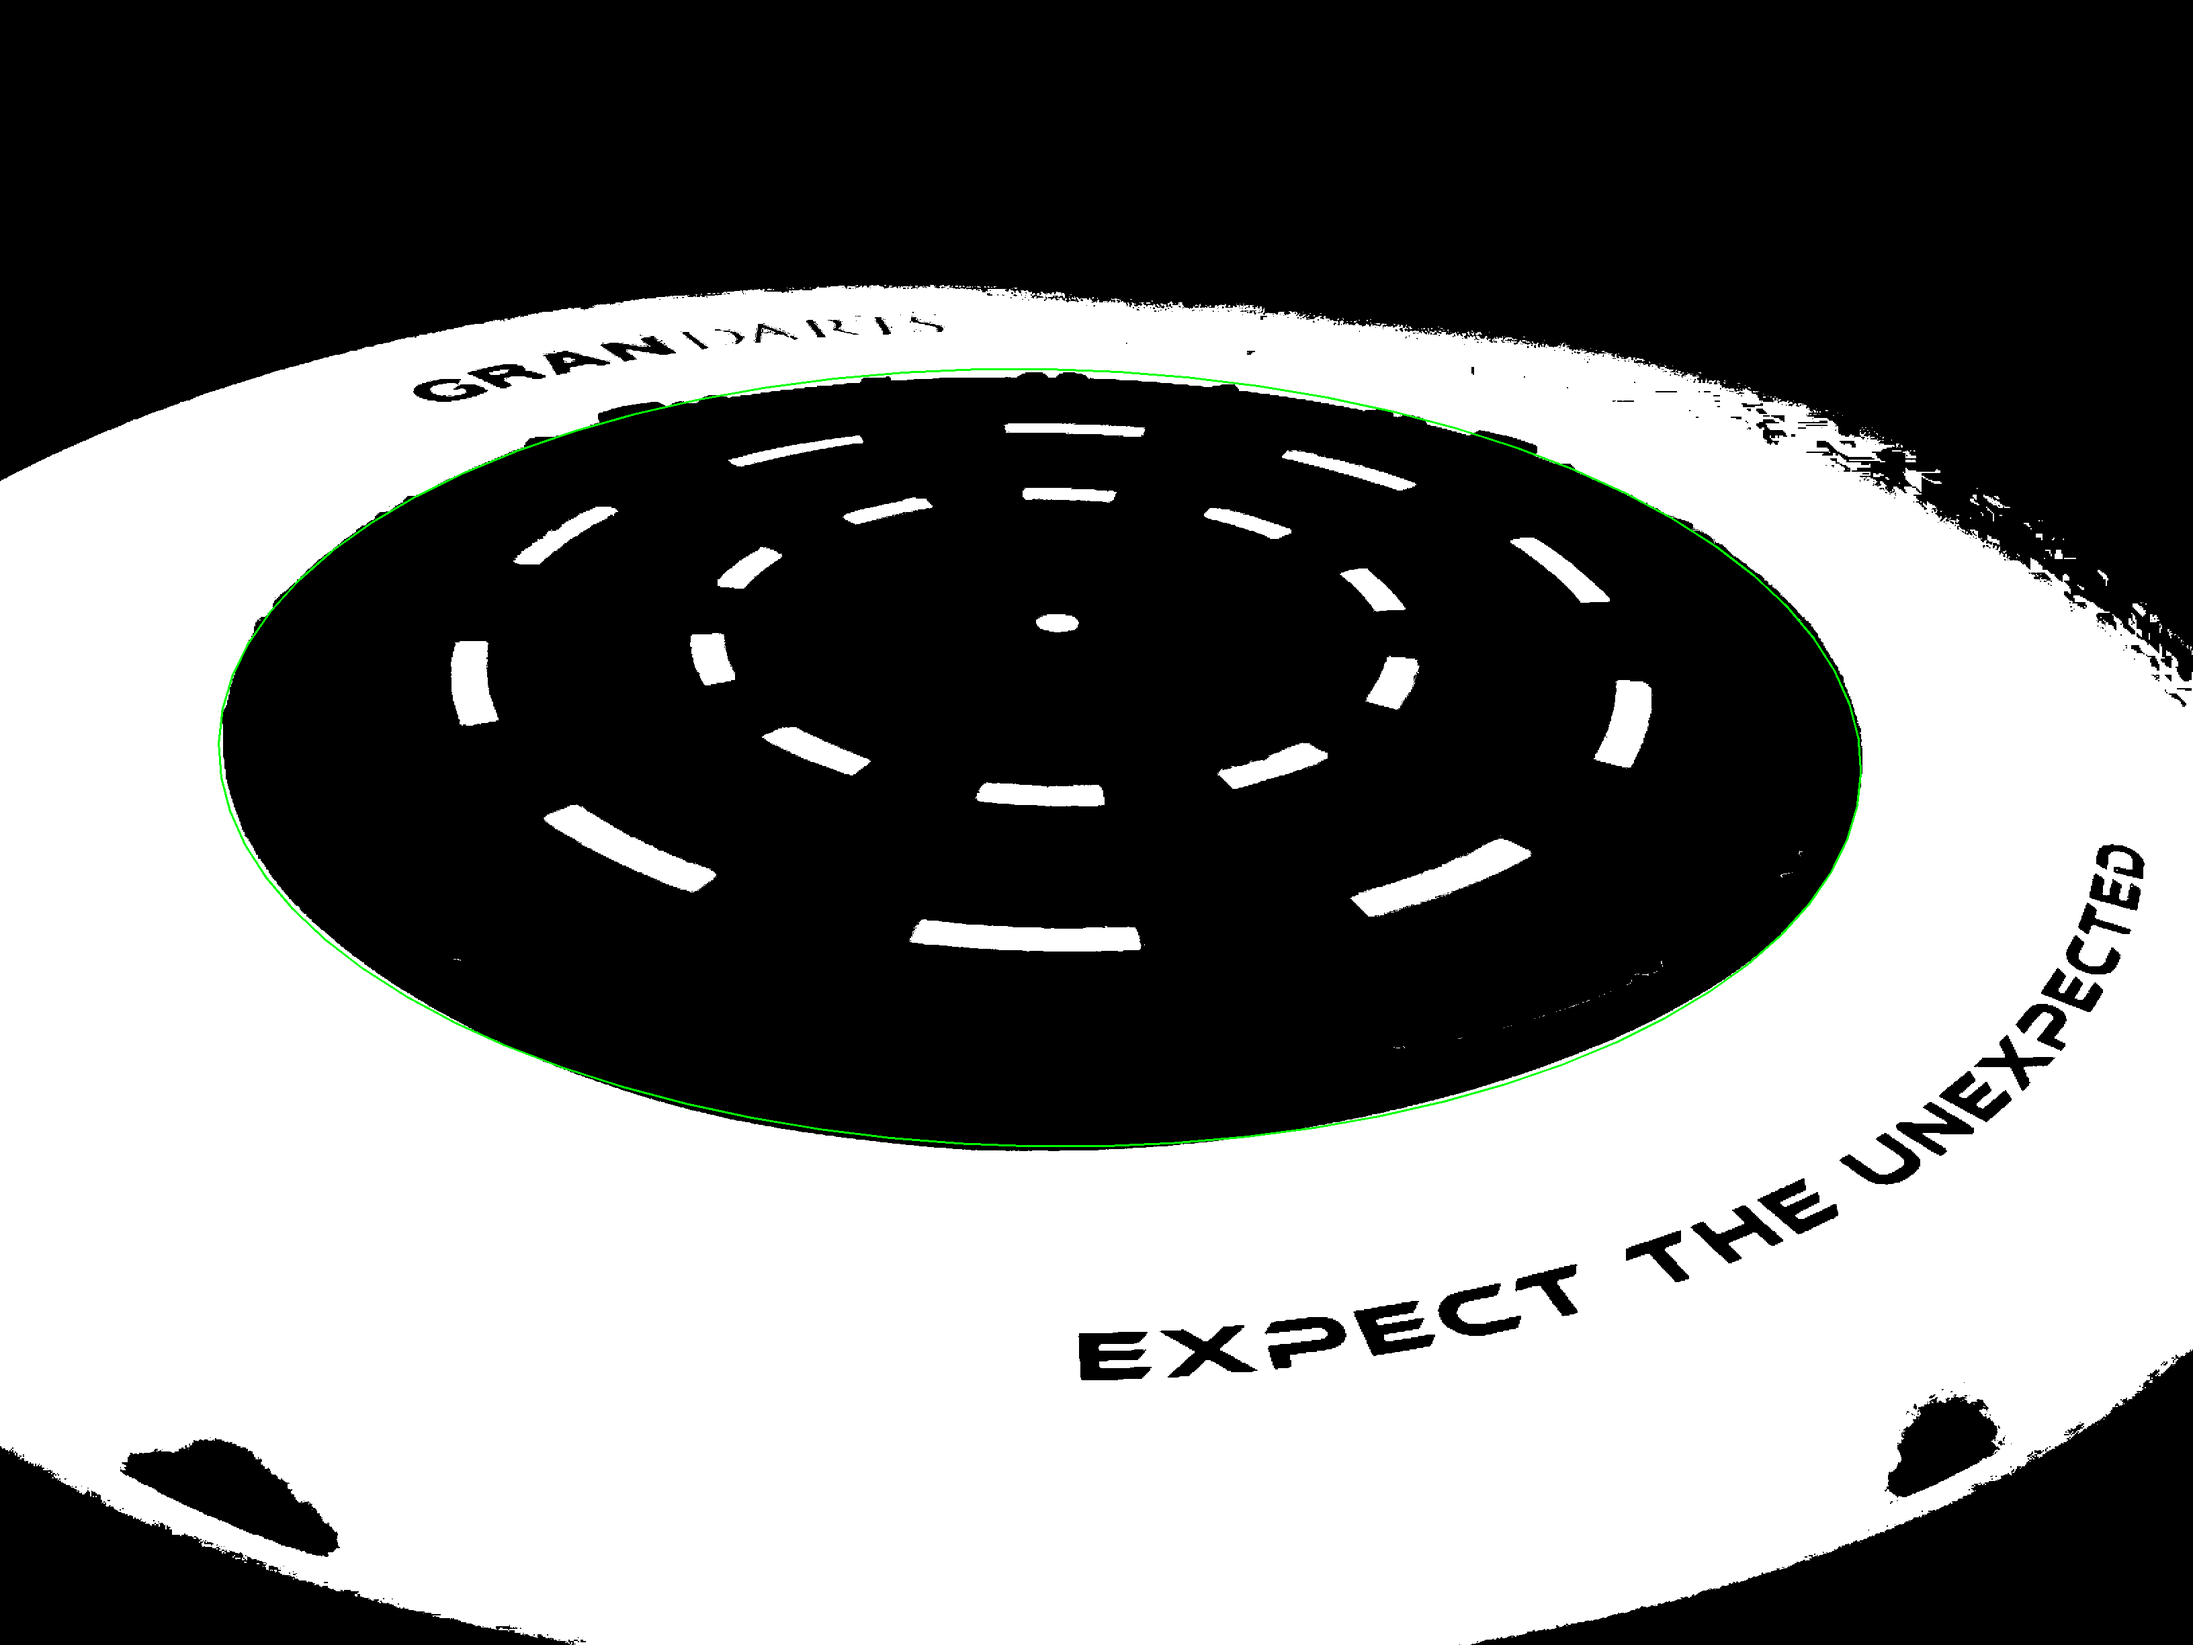
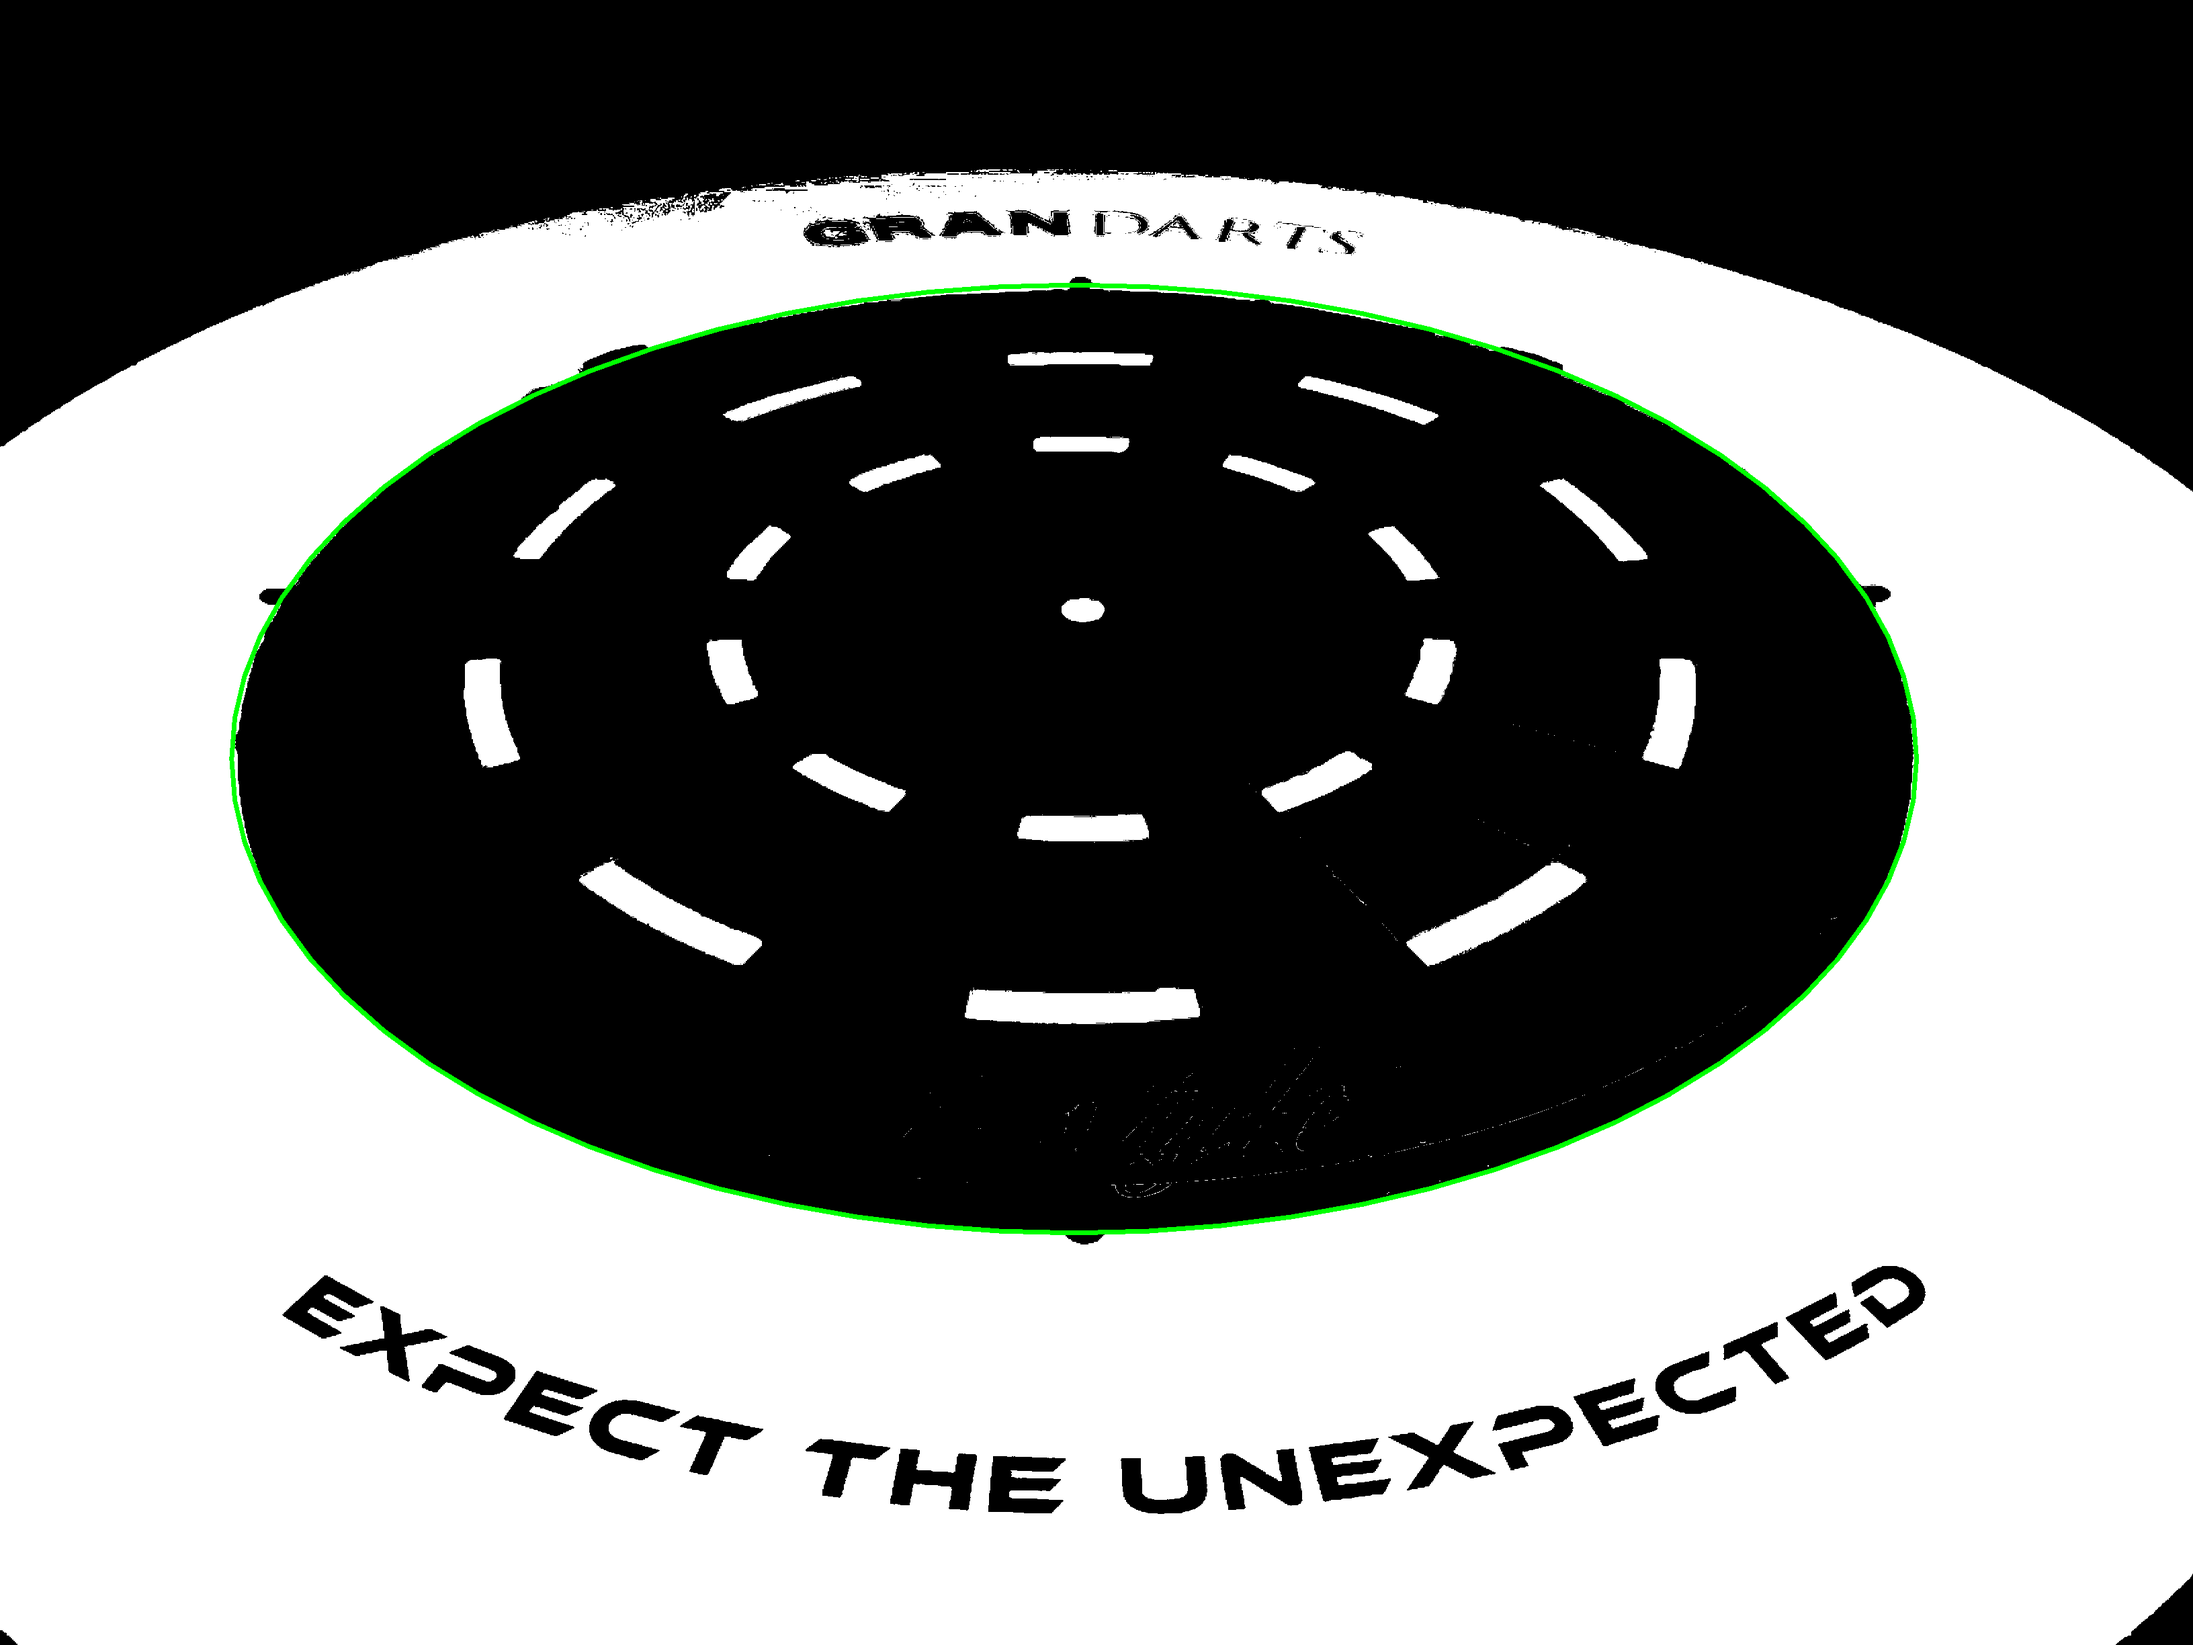
[fix]楕円検出の画像を更新

diff --git a/src/level6_円と楕円の抽出/run.py b/src/level6_円と楕円の抽出/run.py
@@ -5,14 +5,15 @@ from matplotlib import pyplot as plt
 
 # 画像の読み込み
 # image_path = "./img/shomen.png"  # 読み込むPNG画像のパス
-image_path = "./img/toonaname.png"  # 読み込むPNG画像のパス
+# image_path = "./img/toonaname.png"  # 読み込むPNG画像のパス
+image_path = "./img/marktuki.png"  # 読み込むPNG画像のパス
 image = cv2.imread(image_path)
 
 # 画像をBGRからHSVに変換
 image_hsv = cv2.cvtColor(image, cv2.COLOR_BGR2HSV)
 
 # 赤の範囲（HSV空間）
-lower_red1 = np.array([0, 80, 122])
+lower_red1 = np.array([0, 80, 90])
 upper_red1 = np.array([25, 255, 255])
 lower_red2 = np.array([160, 70, 100])
 upper_red2 = np.array([180, 255, 255])
@@ -37,7 +38,7 @@ for contour in contours:
         # 楕円をフィット
         ellipse = cv2.fitEllipse(contour)
         # 楕円を緑色で描画
-        cv2.ellipse(output_image, ellipse, (0, 255, 0), 2)
+        cv2.ellipse(output_image, ellipse, (0, 255, 0), 5)
 
 # 結果の保存
 output_path = "./img/output/detected_image.png"
